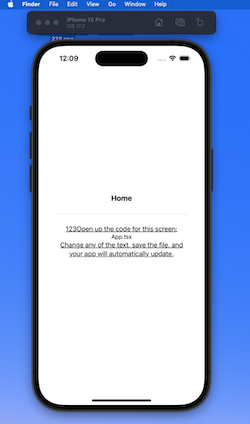
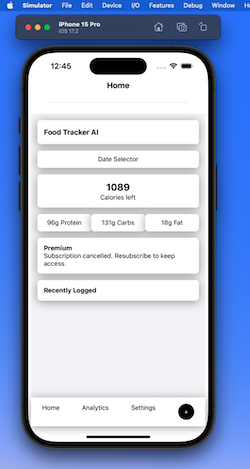
tab 1 [home] (#8)
* asd

* qwe

* container

* i

diff --git a/components/Home.tsx b/components/Home.tsx
@@ -1,0 +1,57 @@
+import { Text, View } from 'react-native';
+
+export default function FoodTrackerScreen({ path }: { path: string }) {
+  return (
+    <View className="flex-1 bg-gray-100 p-4">
+      {/* Header */}
+      <View className="rounded-lg bg-white p-4 shadow-md">
+        <Text className="text-lg font-bold">Food Tracker AI</Text>
+      </View>
+
+      {/* Date Selection */}
+      <View className="mt-4 rounded-lg bg-white p-3 shadow-md">
+        <Text className="text-center">Date Selector</Text>
+      </View>
+
+      {/* Calorie Summary */}
+      <View className="mt-4 flex items-center rounded-lg bg-white p-4 shadow-md">
+        <Text className="text-2xl font-bold">1089</Text>
+        <Text>Calories left</Text>
+      </View>
+
+      {/* Macros */}
+      <View className="mt-4 flex flex-row justify-between">
+        <View className="w-1/3 rounded-lg bg-white p-3 shadow-md">
+          <Text className="text-center">96g Protein</Text>
+        </View>
+        <View className="w-1/3 rounded-lg bg-white p-3 shadow-md">
+          <Text className="text-center">131g Carbs</Text>
+        </View>
+        <View className="w-1/3 rounded-lg bg-white p-3 shadow-md">
+          <Text className="text-center">18g Fat</Text>
+        </View>
+      </View>
+
+      {/* Premium Subscription */}
+      <View className="mt-4 rounded-lg bg-white p-4 shadow-md">
+        <Text className="font-bold">Premium</Text>
+        <Text>Subscription cancelled. Resubscribe to keep access.</Text>
+      </View>
+
+      {/* Recently Logged */}
+      <View className="mt-4 rounded-lg bg-white p-4 shadow-md">
+        <Text className="font-bold">Recently Logged</Text>
+      </View>
+
+      {/* Bottom Navigation */}
+      <View className="absolute bottom-0 left-0 right-0 flex flex-row justify-around bg-white py-4 shadow-md">
+        <Text>Home</Text>
+        <Text>Analytics</Text>
+        <Text>Settings</Text>
+        <View className="h-10 w-10 items-center justify-center rounded-full bg-black">
+          <Text className="text-white">+</Text>
+        </View>
+      </View>
+    </View>
+  );
+}

diff --git a/components/Container.tsx b/components/Container.tsx
@@ -1,9 +1,14 @@
-import { SafeAreaView } from 'react-native';
+import { SafeAreaView, View } from 'react-native';
 
 export const Container = ({ children }: { children: React.ReactNode }) => {
-  return <SafeAreaView className={styles.container}>{children}</SafeAreaView>;
+  return (
+    <SafeAreaView style={styles.container}>
+      <View style={styles.inner}>{children}</View>
+    </SafeAreaView>
+  );
 };
 
 const styles = {
-  container: 'flex flex-1 m-6',
+  container: { flex: 1, margin: 6 },
+  inner: { flex: 1 }, // Ensures children fill available space
 };

diff --git a/components/ScreenContent.tsx b/components/ScreenContent.tsx
@@ -1,6 +1,6 @@
 import { Text, View } from 'react-native';
 
-import { EditScreenInfo } from './EditScreenInfo';
+import Home from './Home';
 
 type ScreenContentProps = {
   title: string;
@@ -13,7 +13,7 @@ export const ScreenContent = ({ title, path, children }: ScreenContentProps) => 
     <View className={styles.container}>
       <Text className={styles.title}>{title}</Text>
       <View className={styles.separator} />
-      <EditScreenInfo path={path} />
+      <Home path={path} />
       {children}
     </View>
   );

diff --git a/App.tsx b/App.tsx
@@ -1,3 +1,4 @@
+import { Container } from 'components/Container';
 import { ScreenContent } from 'components/ScreenContent';
 import { StatusBar } from 'expo-status-bar';
 
@@ -5,9 +6,9 @@ import './global.css';
 
 export default function App() {
   return (
-    <>
+    <Container>
       <ScreenContent title="Home" path="App.tsx" />
       <StatusBar style="auto" />
-    </>
+    </Container>
   );
 }
